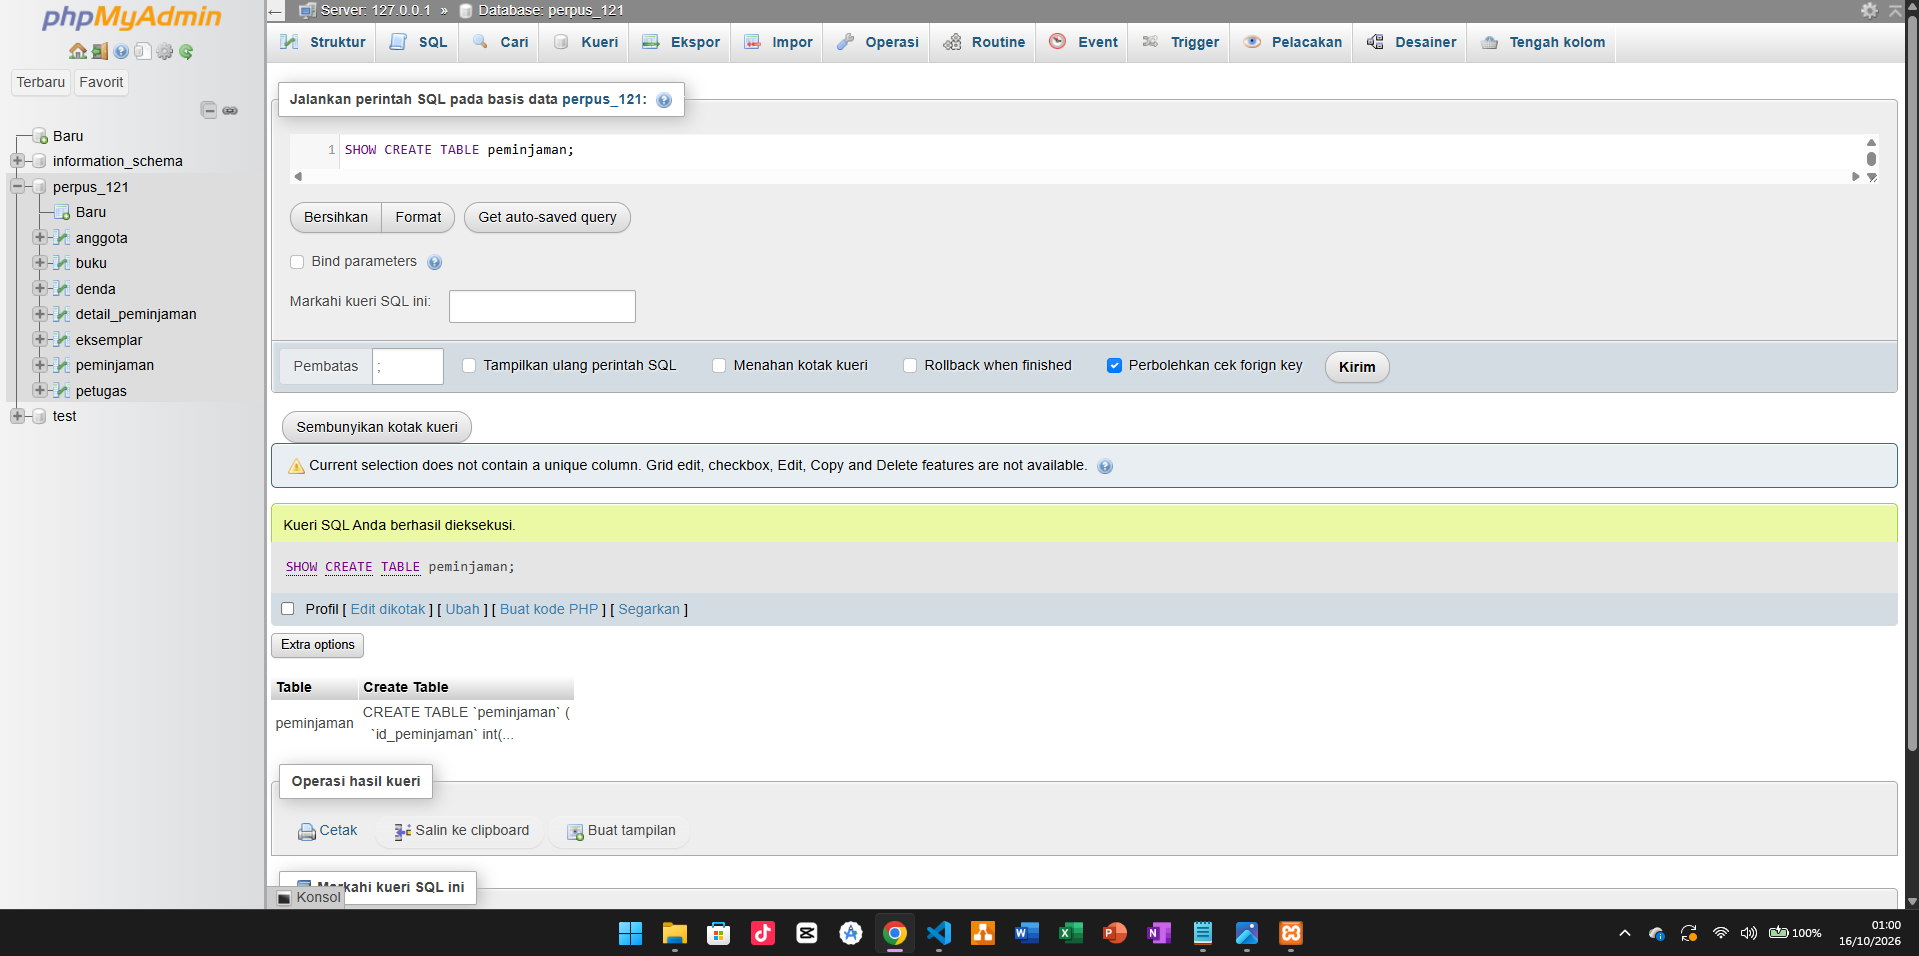
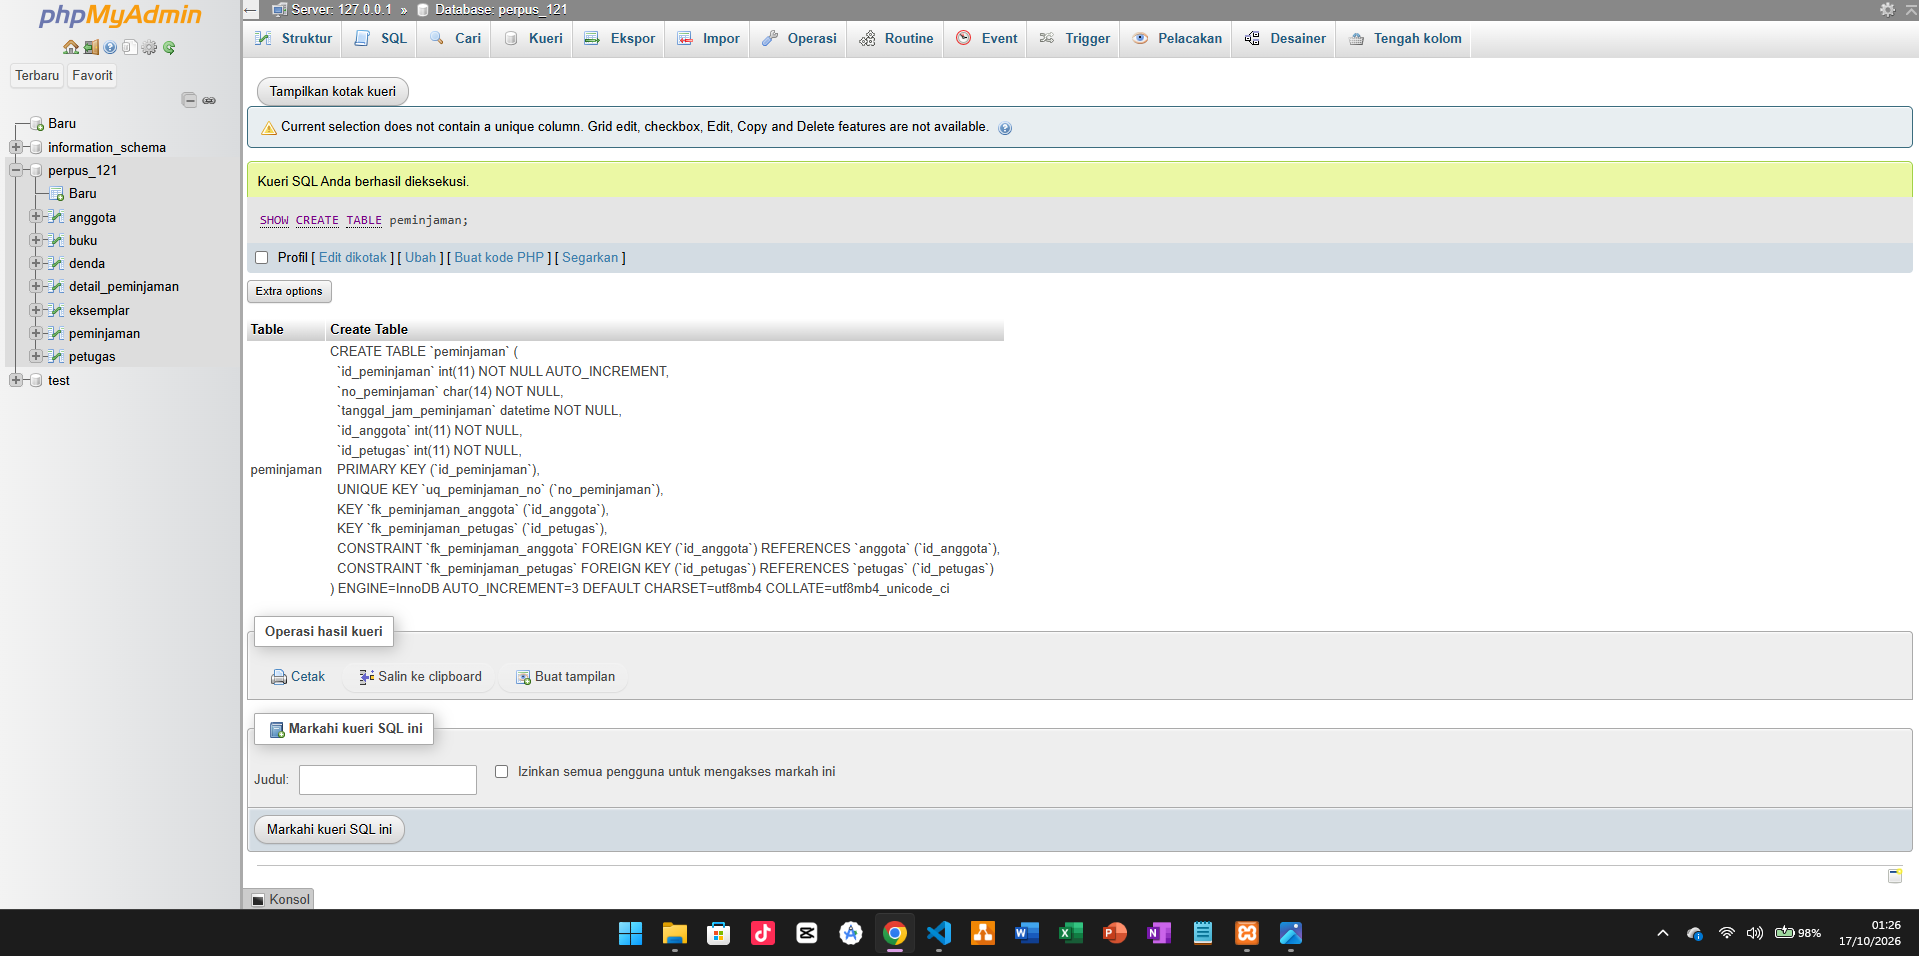
p05: tambah bukti show create table penjualan dan peminjaman

diff --git a/laporan/p05_laporan_25430121.md b/laporan/p05_laporan_25430121.md
@@ -107,6 +107,11 @@ Proyek Perpustakaan Pakde DS menggunakan basis data `perpus_121` dengan tujuh ta
 
 **Catatan:** Tanda (*) menunjukkan aturan bisnis yang tidak sepenuhnya dapat ditegakkan hanya dengan constraint pada DDL. Aturan tersebut dapat memerlukan trigger, prosedur tersimpan, transaksi, atau validasi pada aplikasi. Pada proyek ini, `CHECK (jumlah_perpanjangan <= 1)` menegakkan batas jumlah perpanjangan, tetapi tidak dengan sendirinya memastikan bahwa perpanjangan dilakukan sebelum tanggal jatuh tempo atau menambah masa pinjam tepat tujuh hari.
 
+Gambar 6.1 menampilkan hasil SHOW CREATE TABLE peminjaman pada basis data perpus_121. Definisi ini membuktikan primary key, kedua foreign key (ke anggota dan petugas), serta constraint UNIQUE pada no_peminjaman telah terbentuk sesuai rancangan.
+
+![SHOW CREATE TABLE peminjaman](img/p05_show_create_peminjaman_25430121.png)
+Gambar 6.1 Definisi fisik tabel peminjaman (perpus_121)
+
 ### 6.2 ERD Fisik
 
 ERD fisik Perpustakaan Pakde DS menggambarkan tujuh tabel beserta atribut, primary key, foreign key, dan hubungan antartabel. Tabel `buku` berhubungan dengan `eksemplar`, sedangkan `peminjaman` berhubungan dengan `anggota` dan `petugas`. Tabel `detail_peminjaman` menghubungkan transaksi peminjaman dengan eksemplar fisik yang dipinjam. Tabel `denda` berhubungan dengan detail peminjaman dan petugas yang menangani denda.
@@ -115,7 +120,7 @@ Rancangan ERD juga memperlihatkan aturan relasi dan constraint yang diterapkan p
 
 ![ERD fisik Perpustakaan Pakde DS](img/p05_erd_fisik_25430121.png)
 
-*Gambar 6.1 ERD fisik Perpustakaan Pakde DS dengan tujuh tabel dan hubungan antartabel.*
+*Gambar 6.2 ERD fisik Perpustakaan Pakde DS dengan tujuh tabel dan hubungan antartabel.*
 
 ### 6.3 Analisis Batas P + 2
 
